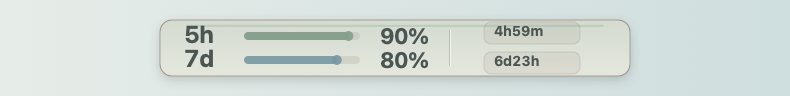
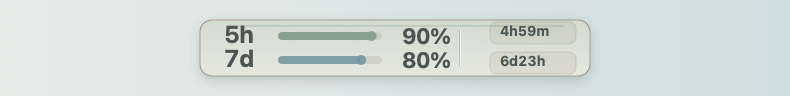
Tighten menu bar gauge width

diff --git a/script/generate_public_assets.swift b/script/generate_public_assets.swift
@@ -157,8 +157,8 @@ func drawMenuBarCountdownPill(_ value: String, rect: NSRect, fill: NSColor, stro
 }
 
 func drawMenuBarRefreshCountdown(in rect: NSRect, ink: NSColor, fill: NSColor, stroke: NSColor) {
-    drawMenuBarCountdownPill("4h59m", rect: NSRect(x: rect.minX + 8, y: rect.midY + 4, width: 96, height: 22), fill: fill, stroke: stroke, text: ink)
-    drawMenuBarCountdownPill("6d23h", rect: NSRect(x: rect.minX + 8, y: rect.midY - 26, width: 96, height: 22), fill: fill, stroke: stroke, text: ink)
+    drawMenuBarCountdownPill("4h59m", rect: NSRect(x: rect.minX + 6, y: rect.midY + 4, width: 86, height: 22), fill: fill, stroke: stroke, text: ink)
+    drawMenuBarCountdownPill("6d23h", rect: NSRect(x: rect.minX + 6, y: rect.midY - 26, width: 86, height: 22), fill: fill, stroke: stroke, text: ink)
 }
 
 func drawMenuBarMorandiDivider(_ x: CGFloat, in rect: NSRect, line: NSColor) {
@@ -207,7 +207,7 @@ func writeMenuBarPNG(_ path: String) throws {
         NSColor(calibratedRed: 0.77, green: 0.84, blue: 0.84, alpha: 1.0),
     ])?.draw(in: NSBezierPath(rect: NSRect(origin: .zero, size: menuBarSize)), angle: 0)
 
-    let strip = NSRect(x: 160, y: 20, width: 470, height: 56)
+    let strip = NSRect(x: 200, y: 20, width: 390, height: 56)
     let shadow = NSShadow()
     shadow.shadowColor = NSColor.black.withAlphaComponent(0.16)
     shadow.shadowBlurRadius = 12
@@ -229,19 +229,19 @@ func writeMenuBarPNG(_ path: String) throws {
     sage.withAlphaComponent(0.28).setFill()
     topRail.fill()
 
-    for x in [strip.minX + 290] as [CGFloat] {
+    for x in [strip.minX + 260] as [CGFloat] {
         drawMenuBarMorandiDivider(x, in: strip, line: line)
     }
 
     menuBarText("5h", at: NSPoint(x: strip.minX + 24, y: 48), size: 24, weight: .bold, color: ink, mono: true)
     menuBarText("7d", at: NSPoint(x: strip.minX + 24, y: 24), size: 24, weight: .bold, color: ink, mono: true)
-    drawMenuBarUsagePercentBar(value: 0.90, rect: NSRect(x: strip.minX + 84, y: 56, width: 116, height: 8), fill: sage, track: line.withAlphaComponent(0.20))
-    drawMenuBarUsagePercentBar(value: 0.80, rect: NSRect(x: strip.minX + 84, y: 32, width: 116, height: 8), fill: mist.withAlphaComponent(0.88), track: line.withAlphaComponent(0.20))
-    menuBarText("90%", at: NSPoint(x: strip.minX + 220, y: 47), size: 22, weight: .bold, color: ink, mono: true)
-    menuBarText("80%", at: NSPoint(x: strip.minX + 220, y: 23), size: 22, weight: .bold, color: ink, mono: true)
+    drawMenuBarUsagePercentBar(value: 0.90, rect: NSRect(x: strip.minX + 78, y: 56, width: 104, height: 8), fill: sage, track: line.withAlphaComponent(0.20))
+    drawMenuBarUsagePercentBar(value: 0.80, rect: NSRect(x: strip.minX + 78, y: 32, width: 104, height: 8), fill: mist.withAlphaComponent(0.88), track: line.withAlphaComponent(0.20))
+    menuBarText("90%", at: NSPoint(x: strip.minX + 202, y: 47), size: 22, weight: .bold, color: ink, mono: true)
+    menuBarText("80%", at: NSPoint(x: strip.minX + 202, y: 23), size: 22, weight: .bold, color: ink, mono: true)
 
     drawMenuBarRefreshCountdown(
-        in: NSRect(x: strip.minX + 316, y: 23, width: 126, height: 50),
+        in: NSRect(x: strip.minX + 284, y: 23, width: 110, height: 50),
         ink: ink,
         fill: taupe.withAlphaComponent(0.13),
         stroke: taupe.withAlphaComponent(0.28)

diff --git a/native/CodexGauge.swift b/native/CodexGauge.swift
@@ -1799,12 +1799,12 @@ private final class CodexGaugeApp: NSObject, NSApplicationDelegate {
     private let watchRefreshInterval: TimeInterval = 3 * 60
     private let criticalRefreshInterval: TimeInterval = 2 * 60
     private let tenMinuteRefreshInterval: TimeInterval = 10 * 60
-    private let statusItemWidth: CGFloat = 154
-    private let statusImageSize = NSSize(width: 148, height: 22)
-    private let menuBarUsagePercentRect = NSRect(x: 7, y: 3, width: 82, height: 16)
-    private let menuBarRefreshCountdownRect = NSRect(x: 94, y: 2.2, width: 46, height: 17.6)
+    private let statusItemWidth: CGFloat = 142
+    private let statusImageSize = NSSize(width: 136, height: 22)
+    private let menuBarUsagePercentRect = NSRect(x: 7, y: 3, width: 76, height: 16)
+    private let menuBarRefreshCountdownRect = NSRect(x: 88, y: 2.2, width: 40, height: 17.6)
     private let signalPopoverSize = NSSize(width: 560, height: 560)
-    private let quotaRailWidth: CGFloat = 36
+    private let quotaRailWidth: CGFloat = 32
     private let signalRailSegments = 10
     private let codexCliBundlePath = "/Applications/Codex.app/Contents/Resources/codex"
     private let normalQuotaColor = NSColor(calibratedRed: 0.58, green: 1.00, blue: 0.89, alpha: 0.95)
@@ -3730,7 +3730,7 @@ private final class CodexGaugeApp: NSObject, NSApplicationDelegate {
 
     private func drawMenuBarChrome(source: String?, nonLiveMode: Bool, palette: GaugePalette) {
         drawMenuBarMinimalMorandiPill(source: source, nonLiveMode: nonLiveMode, palette: palette)
-        for x in [90] as [CGFloat] {
+        for x in [84] as [CGFloat] {
             drawMenuBarMorandiDivider(x: x, palette: palette)
         }
     }
@@ -3913,7 +3913,7 @@ private final class CodexGaugeApp: NSObject, NSApplicationDelegate {
             .font: NSFont.monospacedDigitSystemFont(ofSize: fontSize, weight: .semibold),
             .foregroundColor: value == nil ? palette.mutedText : palette.primaryText,
         ]
-        (percentText as NSString).draw(at: NSPoint(x: menuBarUsagePercentRect.minX + 64, y: y - 3.1), withAttributes: valueAttrs)
+        (percentText as NSString).draw(at: NSPoint(x: menuBarUsagePercentRect.minX + 58, y: y - 3.1), withAttributes: valueAttrs)
     }
 
     private func drawMenuBarUsagePercentBar(value: Int?, rect: NSRect, palette: GaugePalette, fillColor: NSColor) {
@@ -3952,10 +3952,10 @@ private final class CodexGaugeApp: NSObject, NSApplicationDelegate {
         pill.stroke()
 
         let attrs: [NSAttributedString.Key: Any] = [
-            .font: NSFont.monospacedDigitSystemFont(ofSize: resetText.count > 3 ? 5.3 : 6.0, weight: .bold),
+            .font: NSFont.monospacedDigitSystemFont(ofSize: resetText.count > 3 ? 5.1 : 5.8, weight: .bold),
             .foregroundColor: palette.primaryText.withAlphaComponent(isDarkMenuBar() ? 0.84 : 0.78),
         ]
-        (resetText as NSString).draw(at: NSPoint(x: rect.minX + 2.5, y: rect.minY + 1.4), withAttributes: attrs)
+        (resetText as NSString).draw(at: NSPoint(x: rect.minX + 2.2, y: rect.minY + 1.4), withAttributes: attrs)
     }
 
     private func drawQuotaRail(value: Int?, rect: NSRect, palette: GaugePalette) {

diff --git a/tests/test_native_codex_only.py b/tests/test_native_codex_only.py
@@ -91,11 +91,11 @@ class NativeCodexOnlyTests(unittest.TestCase):
     def test_native_app_draws_codex_usage_and_refresh_status_image(self):
         source = pathlib.Path("native/CodexGauge.swift").read_text()
 
-        self.assertIn("statusItemWidth: CGFloat = 154", source)
-        self.assertIn("statusImageSize = NSSize(width: 148, height: 22)", source)
+        self.assertIn("statusItemWidth: CGFloat = 142", source)
+        self.assertIn("statusImageSize = NSSize(width: 136, height: 22)", source)
         self.assertIn("menuBarUsagePercentRect", source)
         self.assertIn("menuBarRefreshCountdownRect", source)
-        self.assertIn("quotaRailWidth: CGFloat = 36", source)
+        self.assertIn("quotaRailWidth: CGFloat = 32", source)
         self.assertIn("makeStatusImage", source)
         self.assertIn("fiveHourReset: status.fiveHourReset", source)
         self.assertIn("sevenDayReset: status.sevenDayReset", source)

diff --git a/tests/test_signal_console_ux.py b/tests/test_signal_console_ux.py
@@ -55,10 +55,10 @@ class SignalConsoleUXTests(unittest.TestCase):
         countdown_body = swift_function_body(source, "private func drawMenuBarRefreshCountdown(")
 
         for token in [
-            "statusItemWidth: CGFloat = 154",
-            "statusImageSize = NSSize(width: 148, height: 22)",
-            "menuBarUsagePercentRect = NSRect(x: 7, y: 3, width: 82, height: 16)",
-            "menuBarRefreshCountdownRect = NSRect(x: 94, y: 2.2, width: 46, height: 17.6)",
+            "statusItemWidth: CGFloat = 142",
+            "statusImageSize = NSSize(width: 136, height: 22)",
+            "menuBarUsagePercentRect = NSRect(x: 7, y: 3, width: 76, height: 16)",
+            "menuBarRefreshCountdownRect = NSRect(x: 88, y: 2.2, width: 40, height: 17.6)",
             "drawMenuBarMinimalMorandiPill",
             "drawMenuBarUsagePercentBars",
             "drawMenuBarCountdownPill",
